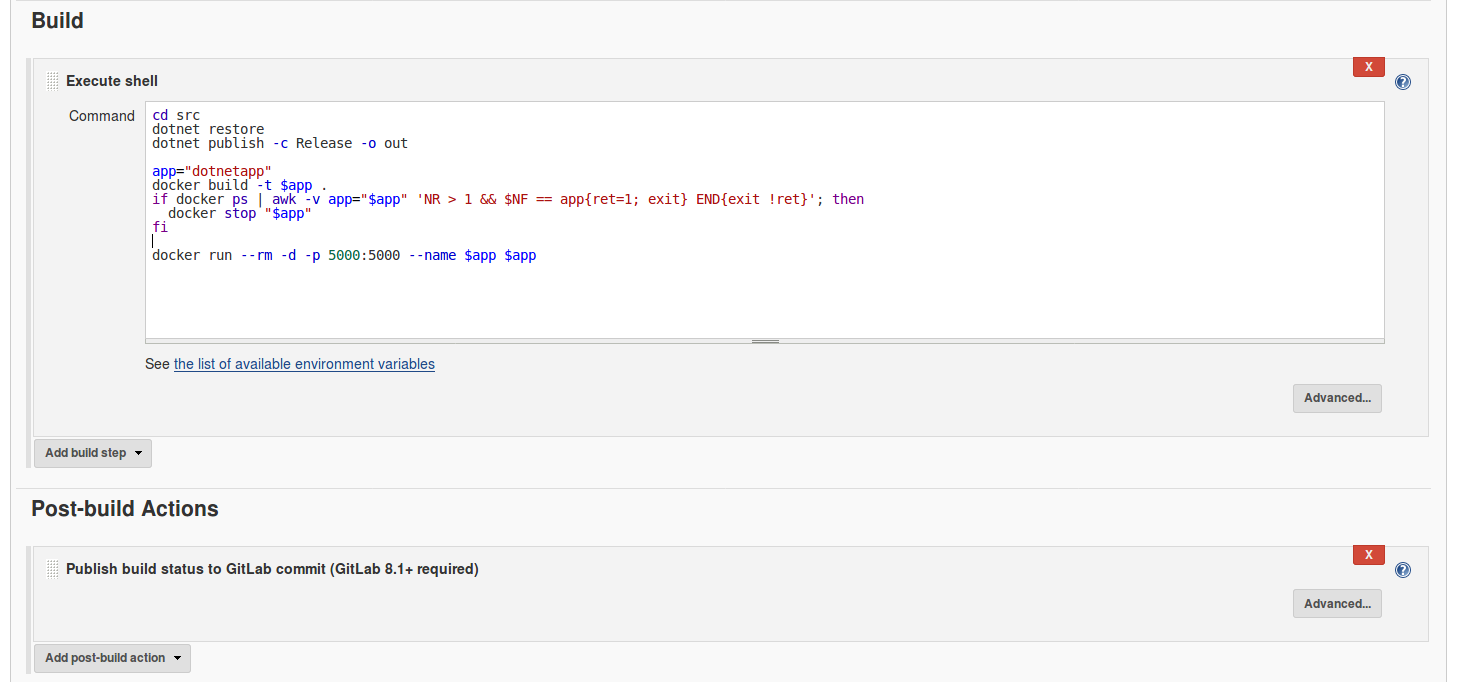
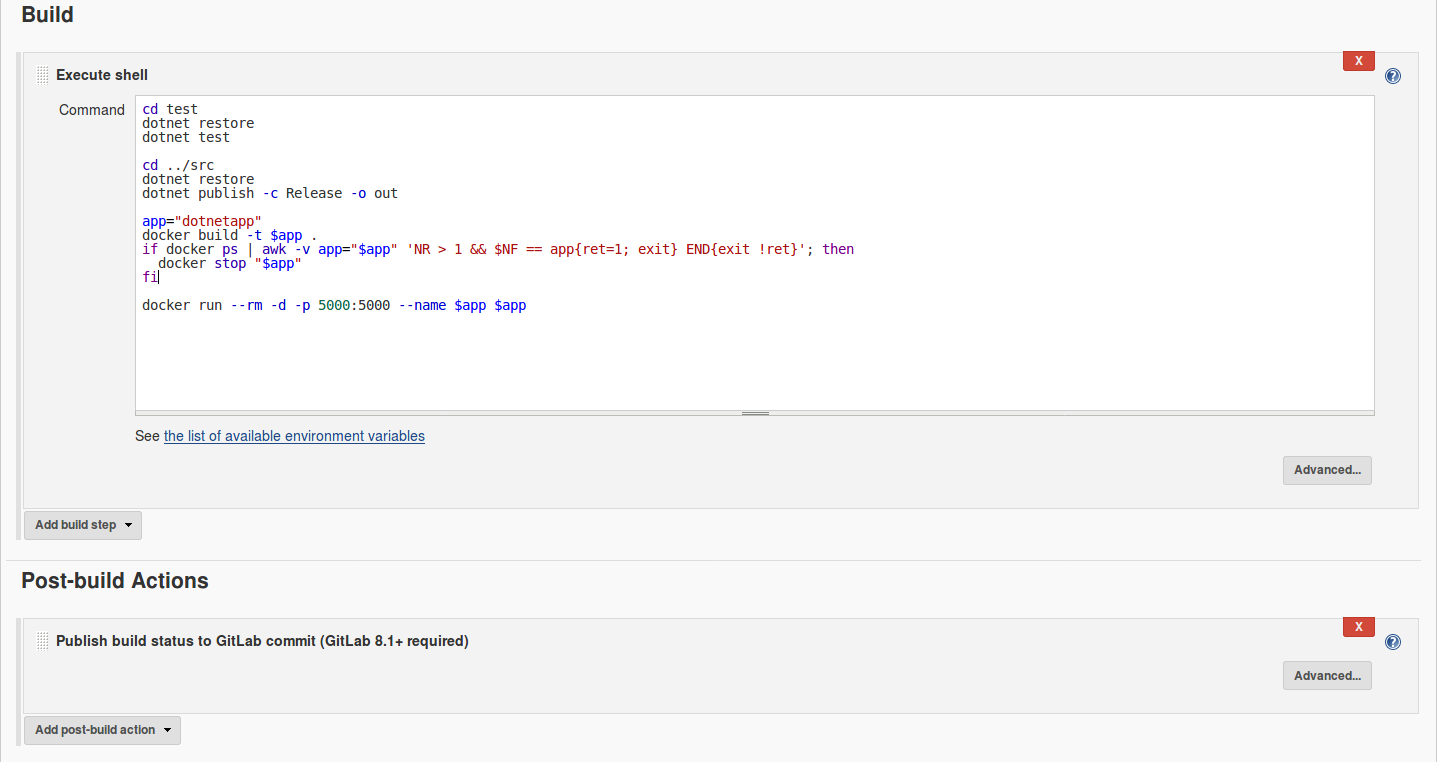
Testes

diff --git a/004-ConfiguracaoJenkins/README.md b/004-ConfiguracaoJenkins/README.md
@@ -49,7 +49,11 @@ Feito isso, vamos configurar os "Build Triggers":
 
 Adicione um "Build Step" em "Build" e selecione "Execute Shell". Dentro de "Command", cole os comandos abaixo:
 ```shell
-cd src
+cd test
+dotnet restore
+dotnet test
+
+cd ../src
 dotnet restore
 dotnet publish -c Release -o out
 
